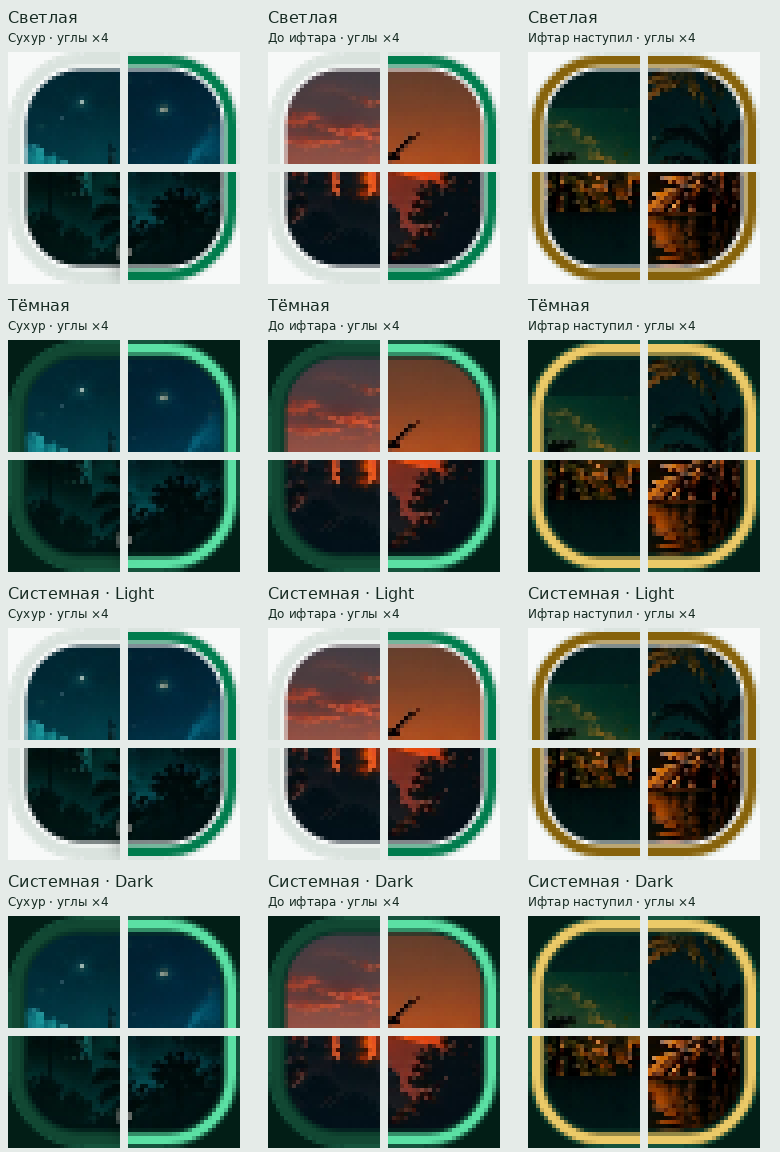
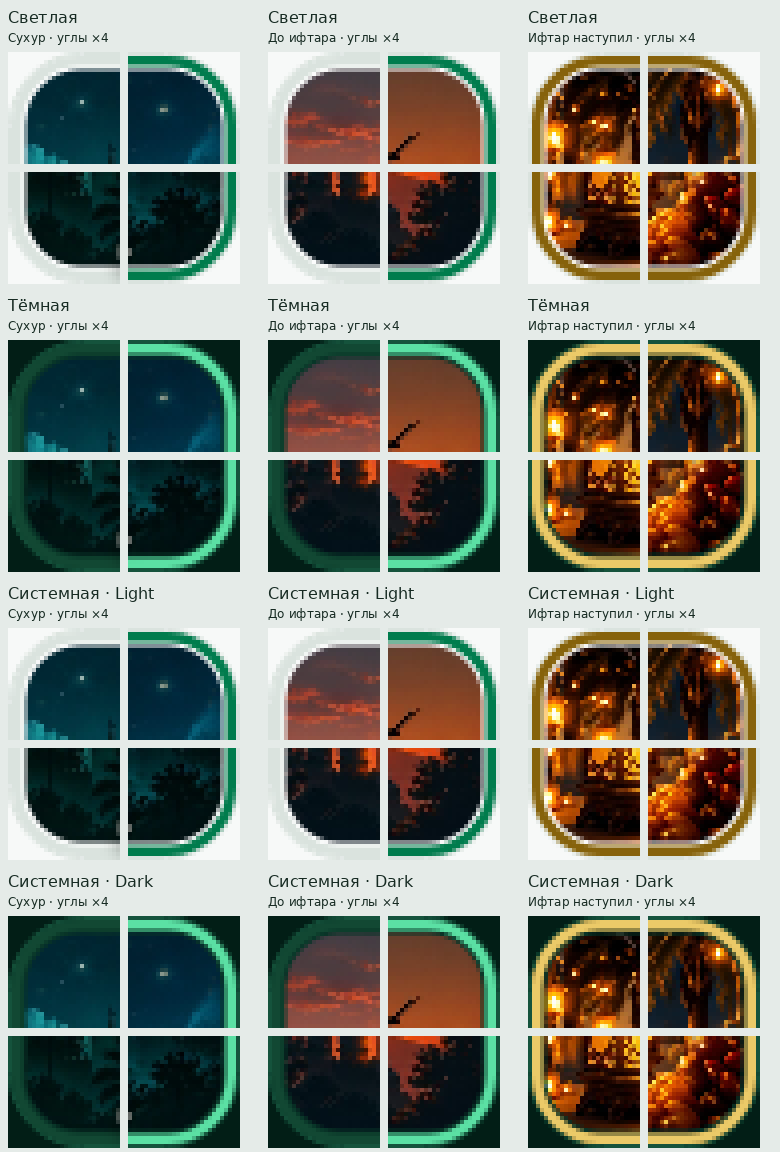
Center crop prepared iftar started Ramadan artwork

diff --git a/app/src/test/java/ru/namaz/safadzhay/ThemeAndRamadanTest.kt b/app/src/test/java/ru/namaz/safadzhay/ThemeAndRamadanTest.kt
@@ -25,6 +25,7 @@ import org.robolectric.util.ReflectionHelpers
 import java.io.File
 import java.time.LocalDate
 import java.time.LocalDateTime
+import kotlin.math.roundToInt
 
 @RunWith(RobolectricTestRunner::class)
 @Config(sdk = [33], qualifiers = "w360dp-h800dp-mdpi")
@@ -252,7 +253,8 @@ class ThemeAndRamadanTest {
             for (widthDp in listOf(328, 480)) {
                 for (asset in listOf(R.drawable.ramadan_suhoor, R.drawable.ramadan_iftar, R.drawable.ramadan_iftar_started)) {
                     val image = RamadanCountdownImageView(app).apply {
-                        scaleType = ImageView.ScaleType.FIT_CENTER
+                        scaleType = if (asset == R.drawable.ramadan_iftar_started)
+                            ImageView.ScaleType.CENTER_CROP else ImageView.ScaleType.FIT_CENTER
                         setImageResource(asset)
                     }
                     val width = (widthDp * density).toInt()
@@ -316,7 +318,7 @@ class ThemeAndRamadanTest {
         assertTrue(image.isShown)
         assertEquals(expected, org.robolectric.Shadows.shadowOf(image.drawable).createdFromResId)
         assertNull(image.colorFilter)
-        assertEquals(ImageView.ScaleType.FIT_CENTER, image.scaleType)
+        assertEquals(if (scene == "after") ImageView.ScaleType.CENTER_CROP else ImageView.ScaleType.FIT_CENTER, image.scaleType)
         val card = ReflectionHelpers.getField<View>(a, "countdownCard")
         assertEquals(card.width / 3, card.height)
         assertEquals(card.width, image.width)
@@ -326,6 +328,20 @@ class ThemeAndRamadanTest {
         val timer = ReflectionHelpers.getField<TextView>(a, "countdown")
         val subtitle = ReflectionHelpers.getField<TextView>(a, "countdownStart")
         if (scene == "after") {
+            assertNotEquals(org.robolectric.Shadows.shadowOf(header.drawable).createdFromResId,
+                org.robolectric.Shadows.shadowOf(image.drawable).createdFromResId)
+            val matrix = FloatArray(9)
+            image.imageMatrix.getValues(matrix)
+            val source = image.drawable
+            val scale = maxOf(image.width.toFloat() / source.intrinsicWidth,
+                image.height.toFloat() / source.intrinsicHeight)
+            assertEquals(scale, matrix[android.graphics.Matrix.MSCALE_X], 0.001f)
+            assertEquals(scale, matrix[android.graphics.Matrix.MSCALE_Y], 0.001f)
+            assertEquals(((image.width - source.intrinsicWidth * scale) / 2f).roundToInt().toFloat(),
+                matrix[android.graphics.Matrix.MTRANS_X], 1f)
+            assertEquals(((image.height - source.intrinsicHeight * scale) / 2f).roundToInt().toFloat(),
+                matrix[android.graphics.Matrix.MTRANS_Y], 1f)
+            assertTrue(ReflectionHelpers.getField<CardProgressIndicator>(a, "progress").goldMode)
             assertEquals("", timer.text.toString())
             assertEquals("", subtitle.text.toString())
             val prayers = ReflectionHelpers.getField<LinearLayout>(a, "prayerList")

diff --git a/app/src/main/java/ru/namaz/safadzhay/MainActivity.kt b/app/src/main/java/ru/namaz/safadzhay/MainActivity.kt
@@ -2225,6 +2225,8 @@ cell.addView(
             ramadanDay != null &&
             previousEvent?.prayer?.name == "Магриб" &&
             Duration.between(previousEvent.time, now).toMinutes() < 10
+        ramadanCountdownBackground.scaleType = if (iftarJustStarted)
+            ImageView.ScaleType.CENTER_CROP else ImageView.ScaleType.FIT_CENTER
 
         if (nextEvent != null) {
             val previousTime = previousEvent?.time

diff --git a/verification/THEME_RAMADAN_CHECK.md b/verification/THEME_RAMADAN_CHECK.md
@@ -4,6 +4,37 @@
 Единственная изменяемая ветка: `test/1.2-test3-security`.
 Исходный коммит: `a7d46f43596b6b776151e9d9fdf64cc4e8a69a44`.
 
+## Подготовленный арт для наступившего ифтара
+
[1 lines of base64/hex data omitted]
+
+| Состояние | Resource |
+|---|---|
+| Постоянный Ramadan banner | `R.drawable.ramadan_header` |
+| До окончания сухура | `R.drawable.ramadan_suhoor` |
+| До ифтара | `R.drawable.ramadan_iftar` |
+| Время ифтара наступило | `R.drawable.ramadan_iftar_started` |
+
+Новое изображение имеет пропорции около 2.5:1, а существующая карточка — 3:1. Только для состояния наступившего ифтара применяется `CENTER_CROP`: одинаковый масштаб по двум осям, центрированный crop и полное заполнение внутренней области. В остальных состояниях сохранён `FIT_CENTER`, включая возврат к сухуру/ожиданию ифтара. Геометрия карточки, размеры/позиция текста, светлый цвет и существующая чёрная тень текста не менялись.
+
+`RamadanCountdownImageView`, его clipping mask, весь `CardProgressIndicator` и порядок слоёв побайтно сохранены. Золотой stroke остаётся поверх изображения. Все Ramadan assets в этом изменении совпадают с исходной пользовательской веткой; верхний баннер, сухур и закат не изменены.
+
+Проверена сцена 10.08.2026, 19:50 при Магрибе 19:47: Light, Dark, System+Android Light и System+Android Dark. Просмотрены четыре угла каждого состояния при увеличении ×4; проверка alpha всех пикселей фонового слоя вне внутренней границы прошла. Расширены существующие UI assertions: отдельный resource ID от верхнего баннера, равные коэффициенты масштабирования, центрирование crop и gold mode. Проверки clipping на четырёх плотностях/двух размерах также используют crop нового изображения.
+
+Сравнение с предыдущей отрисовкой: восемь полных экранов сухура/ожидания ифтара идентичны пиксель в пиксель. Четыре экрана наступившего ифтара меняются только внутри countdown card. System Light/Dark полностью совпадают с соответствующими явными темами. Новый фон визуально отличается от постоянного баннера; текст читается с прежней тенью.
+
+Сборка debug успешна; 79 debug и 79 release unit tests прошли. Lint: 0 errors / 62 warnings в каждом варианте. Preflight и 7 Python security tests прошли. Проверка выполнена через Robolectric native graphics; физического устройства/эмулятора нет. Реальные даты, расписания, debug fixture, theme settings, signing и security не модифицированы.
+
+Файлы текущего изменения:
+
+```text
+app/src/main/java/ru/namaz/safadzhay/MainActivity.kt
+app/src/test/java/ru/namaz/safadzhay/ThemeAndRamadanTest.kt
+verification/THEME_RAMADAN_CHECK.md
+verification/theme-ui/ramadan.webp
+verification/theme-ui/ramadan-corners.webp
+```
+
 ## Исправление clipping Ramadan countdown
 
 Актуальная проверка продолжает ветку с коммита `061c4d6313122e13200d098bfc88b7c31019f6c1`.
@@ -12,7 +43,7 @@
 
 `RamadanCountdownImageView.kt` добавляет отдельный `Canvas.clipPath` только для artwork. Кэшируемая маска пересчитывается при изменении размера и следует внутреннему контуру существующего индикатора: stroke 2.5dp, centre inset 2.25dp, внутренний отступ 3.5dp, внутренний радиус 14.5dp при обычных размерах. Дополнительный запас 1 физический пиксель удерживает полупрозрачное сглаживание углов внутри stroke. Он изменяет только маску изображения, а не размер ImageView, карточки или рамки.
 
-В `MainActivity.kt` изменён только тип ImageView для countdown. `FIT_CENTER`, resource IDs, размеры, текст, padding и порядок слоёв сохранены. Верхний Ramadan banner не менялся. `DesignViews.kt`, включая весь `CardProgressIndicator`, побайтно совпадает с исходным коммитом: прогресс, направление, цвета, толщина, форма и вычисление по оставшемуся времени не модифицированы.
+На этапе исправления clipping в `MainActivity.kt` менялся только тип ImageView для countdown; размеры, текст, padding и порядок слоёв были сохранены. Последующее изменение crop для подготовленного after-Iftar artwork описано выше. Верхний Ramadan banner не менялся. `DesignViews.kt`, включая весь `CardProgressIndicator`, побайтно совпадает с исходным коммитом: прогресс, направление, цвета, толщина, форма и вычисление по оставшемуся времени не модифицированы.
 
 Проверены сухур, ожидание ифтара и наступивший ифтар в Light, Dark, System+Android Light и System+Android Dark — 12 комбинаций, включая все 9 запрошенных. Автоматическая проверка каждого пикселя отдельного слоя изображения не допускает ненулевой alpha вне внутреннего контура. Все 48 углов дополнительно просмотрены при увеличении ×4. Новый тест `artworkClipRespectsInnerBorderAcrossDensitiesAndSizes` проверяет три исходных фона при mdpi/hdpi/xhdpi/xxxhdpi и двух размерах — ещё 24 комбинации, также в release unit tests.
 
@@ -51,7 +82,7 @@ verification/theme-ui/ramadan-corners.webp
 
 Причина исчезновения изображений: создание баннера и три состояния countdown скрывали ImageView при `!palette.isDark`. Дополнительный Light-блок заменял цвета текста и высоту карточки ифтара. Условия удалены: видимость artwork теперь определяется состоянием Рамадана. В `AppColors` выделены постоянные цвета заголовка и подписей поверх изображения, соответствующие прежним Dark-значениям.
 
-Все четыре исходных WebP-файла в `app/src/main/res/drawable` побайтно совпадают с исходным коммитом. Новые assets и копии для Light не создавались. Нижняя карточка Магриба сохраняет существующий светлый золотистый вариант, а countdown использует исходное изображение.
+На этапе восстановления artwork четыре исходных WebP-файла не менялись; впоследствии пользователь заменил только `ramadan_iftar_started.webp` в коммите `c248d47`, и текущий UI использует эту подготовленную версию. Копии для Light не создавались. Нижняя карточка Магриба сохраняет существующий светлый золотистый вариант.
 
 `ramadanLightDarkAndSystemScenes` расширен проверками видимости и исходного resource ID каждого фона, отсутствия color filter, размеров изображения и карточки, светлых подписей/таймера и золотистого выделения Магриба. Проверены три состояния 10.08.2026 в Light, Dark, System+Light и System+Dark — 12 комбинаций; 09.08 остаётся обычным режимом.
 
